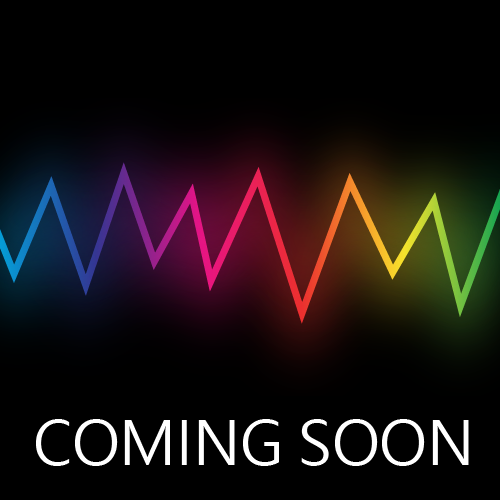
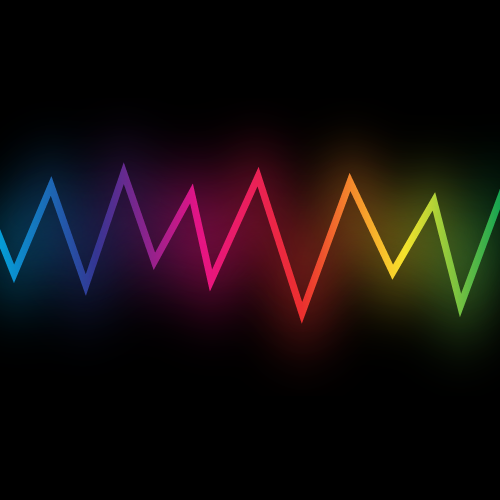
RaveForm link added & image updated

Changed region(s): [[0.06, 0.84, 0.57, 0.93], [0.6, 0.84, 0.96, 0.93]]

diff --git a/index.html b/index.html
@@ -75,7 +75,7 @@
       <div class="tag">Opinionated</div>
       <img src="assets/opinionated_banner.png" alt="Opinionated" style="max-width:100%">
     </a>
-    <a class="img">
+    <a href="https://github.com/MatthewMawby/RaveForm" target="_blank" class="img">
       <div class="tag">RaveForm</div>
       <img src="assets/raveform_banner.png" alt="RaveForm" style="max-width:100%">
     </a>
